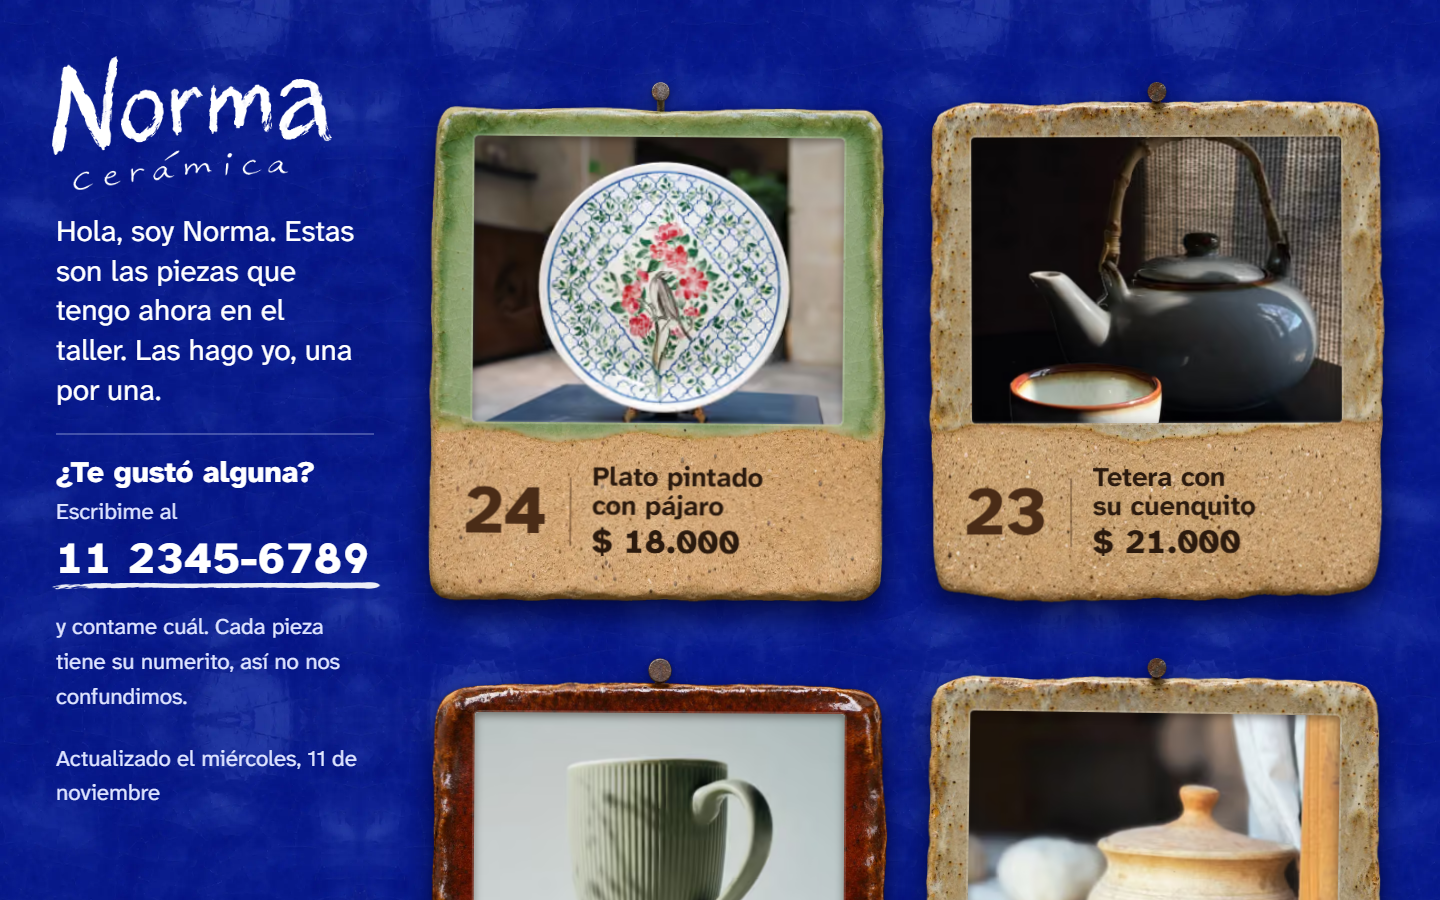
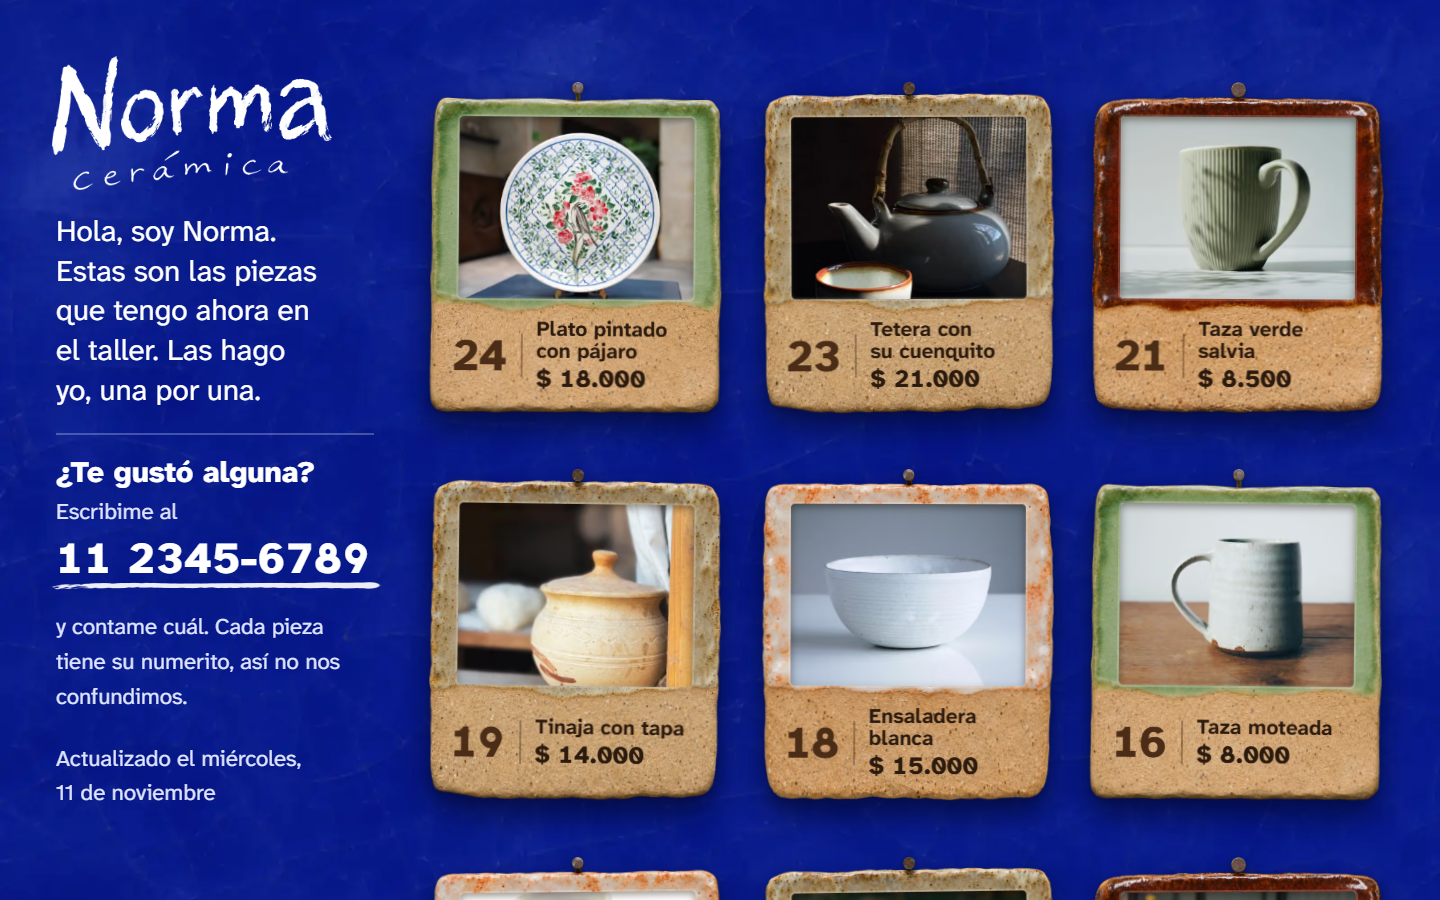
DESIGN.md al día; sin precargas en la vista compacta

diff --git a/src/components/store-view.tsx b/src/components/store-view.tsx
@@ -19,9 +19,12 @@ const updatedLabel = (iso: string) =>
 export function StoreView({ store, compact = false }: { store: PublicStore; compact?: boolean }) {
   const { pieces } = store;
   // Fondos que vienen por CSS: se avisan temprano para que no demoren la primera pantalla.
-  preload("/plates/glaze-cobalt.webp", { as: "image", fetchPriority: "high" });
-  preload("/plates/logo.webp", { as: "image", fetchPriority: "high" });
-  for (const p of pieces.slice(0, 2)) preload(`/plates/tile-${glazeOf(p.number)}.webp`, { as: "image", fetchPriority: "high" });
+  // (En la vista compacta del simulador no: vive en un iframe que a veces está oculto.)
+  if (!compact) {
+    preload("/plates/glaze-cobalt.webp", { as: "image", fetchPriority: "high" });
+    preload("/plates/logo.webp", { as: "image", fetchPriority: "high" });
+    for (const p of pieces.slice(0, 2)) preload(`/plates/tile-${glazeOf(p.number)}.webp`, { as: "image", fetchPriority: "high" });
+  }
   return (
     <div className={s.wall} data-compact={compact || undefined}>
       <header className={s.intro}>

diff --git a/DESIGN.md b/DESIGN.md
@@ -129,7 +129,7 @@ Está pensada para compradores de unos 70 años en el celular. Por eso todo es g
 Un mundo de dos materiales: esmalte cobalto profundo para el fondo y barro crudo para las etiquetas, con un único acento ámbar reservado para foco, novedad y la acción de ver el cambio.
 
 ### Primary
-- **Esmalte Cobalto** (cobalt): color base bajo la textura `glaze-cobalt.webp` (720px, repetida) y `theme-color` del navegador. Contra el color plano, el blanco da 13.1:1; contra la textura, 7.9:1 en su punto más claro y 13.5:1 de promedio.
+- **Esmalte Cobalto** (cobalt): color base bajo la textura `glaze-cobalt.webp` (una sola imagen de 1600px, fija detrás del contenido con `body::before`, sin mosaico) y `theme-color` del navegador. Contra el color plano, el blanco da 13.1:1; contra la textura, 8.6:1 en su punto más claro.
 - **Cobalto de Horno** (cobalt-deep): fondo del `html` (se ve en el overscroll) y texto sobre la pestaña seleccionada (15.9:1 sobre blanco).
 
 ### Secondary
@@ -176,8 +176,8 @@ Una pared, no una grilla de tienda. Margen lateral `--gutter`.
 
 - **Celular (<640px):** una columna. Logo (min(62vw, 270px), proporción 698 / 333), saludo, bloque de contacto con el teléfono en su propia línea, fecha; la primera tablilla asoma en la primera pantalla. Las tablillas siguen verticales en celular: la variante apaisada se descartó porque achicaba la foto de la pieza.
 - **≥640px:** tablillas en 2 columnas.
-- **≥1024px:** columna izquierda de clamp(320px, 26vw, 420px) con el encabezado `sticky` (top 48px) y el logo a min(100%, 280px); la pared a la derecha, todavía en 2 columnas.
-- **≥1500px:** 3 columnas de tablillas.
+- **≥1024px:** columna izquierda de clamp(330px, 26vw, 420px) con el encabezado `sticky` (top 48px) y el logo a min(100%, 280px); la pared a la derecha, todavía en 2 columnas.
+- **≥1360px:** 3 columnas de tablillas.
 - Espacio entre tablillas: `tile-row-gap` vertical y `tile-col-gap` horizontal (el vertical es mayor: hay lugar para que se hamaquen). El dorso arranca a `section-break` y el pie a 56px.
 - **Simulador:** máximo 1180px centrado; dos celulares lado a lado desde 1024px. Debajo de eso, una pestaña "chat / página" y el botón ámbar "Ver cómo quedó la página" dentro del hilo cuando hay un cambio.
 
@@ -240,7 +240,7 @@ El chat del simulador usa los colores reales de WhatsApp a propósito, para que 
 - **Do** dar a todo control al menos 44px de alto (48px en el mundo de Norma) y foco visible ámbar (3px, offset 4px).
 - **Do** que toda acción y todo dato funcione sin hover: el hover sólo agrega el balanceo, que también responde al toque.
 - **Do** cortar todo movimiento con `prefers-reduced-motion: reduce` (animaciones y transiciones en `none`); las tablillas quedan quietas en su inclinación.
-- **Do** producir plates nuevas con `assets/scripts/plates.mjs`: losas de 720 × 821 con el barro en el 30% inferior; cobalto con rango tonal comprimido, espejado 2×2 para repetir sin costura.
+- **Do** producir plates nuevas con `assets/scripts/plates.mjs`: losas de 720 × 821 con el barro en el 30% inferior; cobalto con rango tonal comprimido (×0.36 hacia rgb(10 28 140)) en una sola imagen grande: nunca en mosaico, porque las manchas repetidas delatan el empapelado.
 - **Do** escribir en castellano rioplatense, con la voz de Norma.
 
 ### Don't:
@@ -249,5 +249,4 @@ El chat del simulador usa los colores reales de WhatsApp a propósito, para que 
 - **Don't** usar una segunda tipografía.
 - **Don't** usar los verdes y beiges de WhatsApp fuera del marco del chat del simulador.
 - **Don't** poner el número o el precio de una pieza como imagen: siempre texto real.
-- **Don't** simular relieve en el número de pieza con text-shadow: es tinta plana sobre el barro.
 - **Don't** marcar estado sólo con color: también con forma (punto, píldora, pestaña llena).
